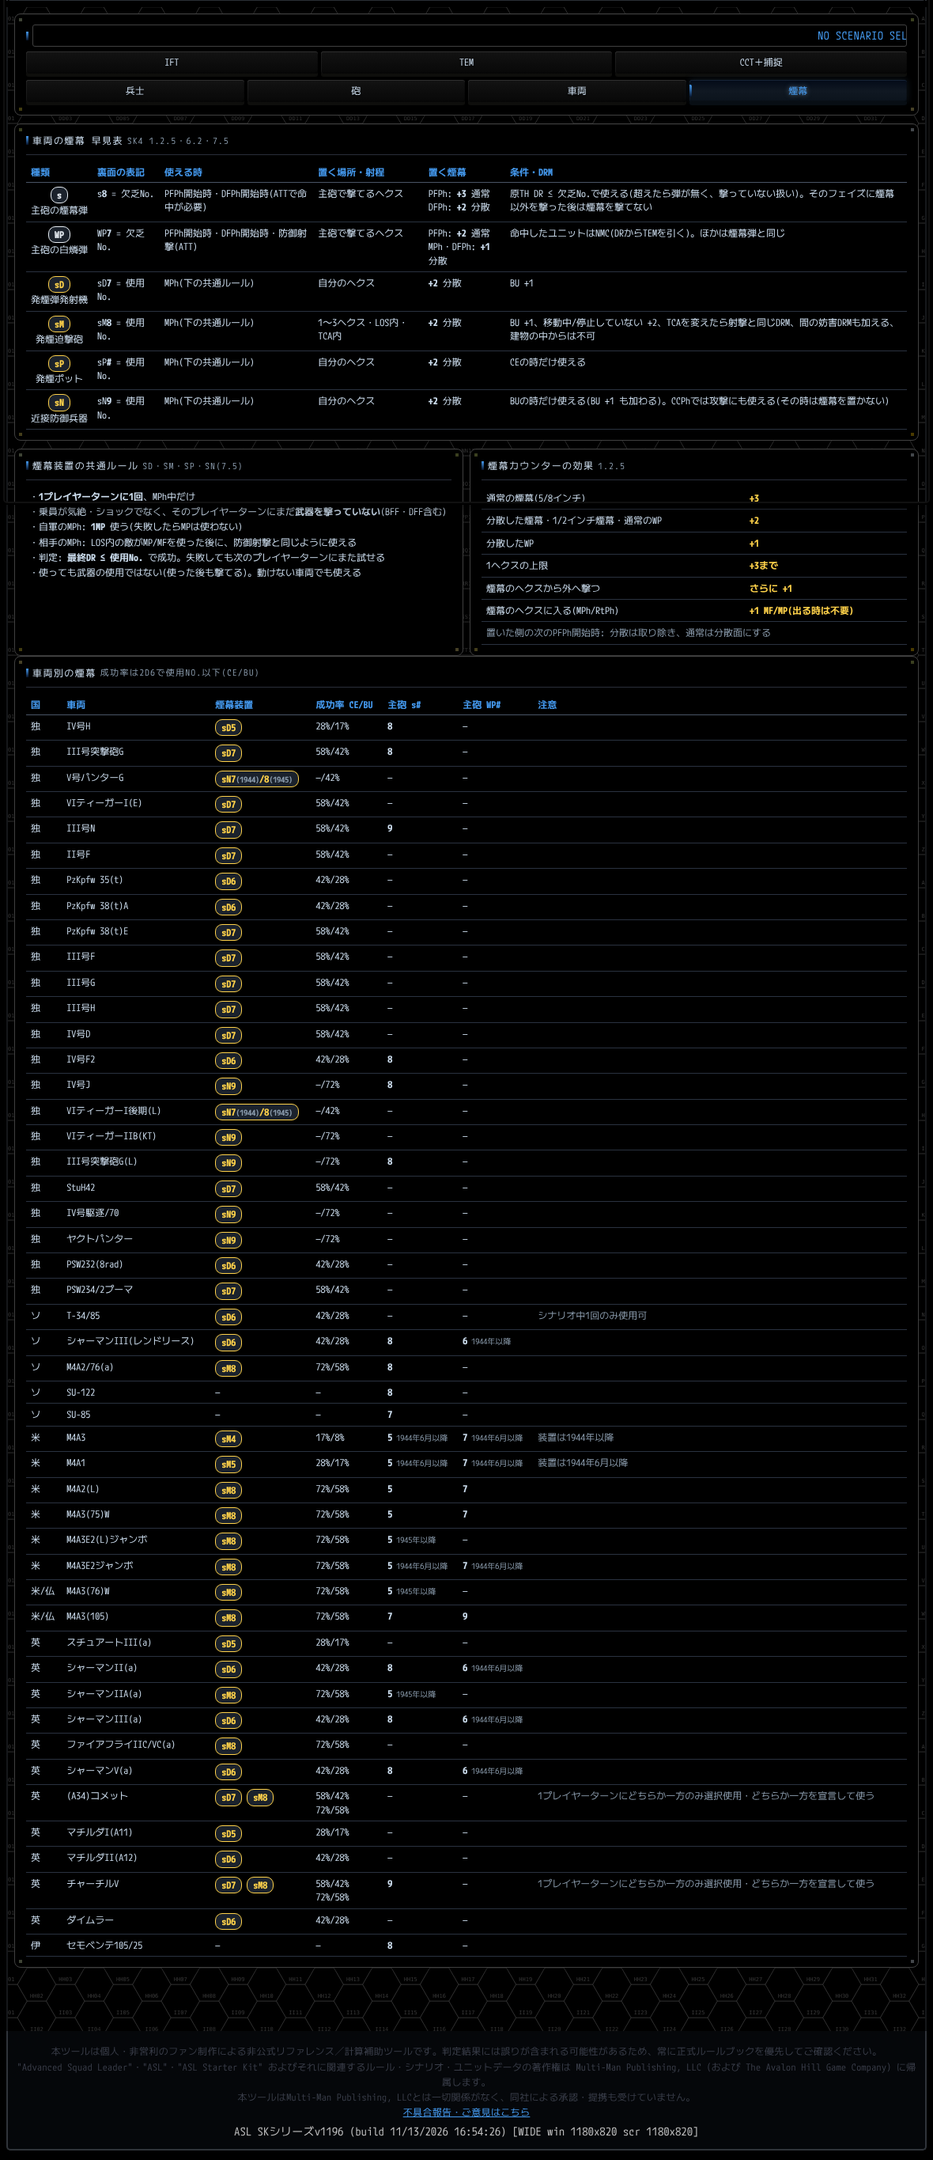
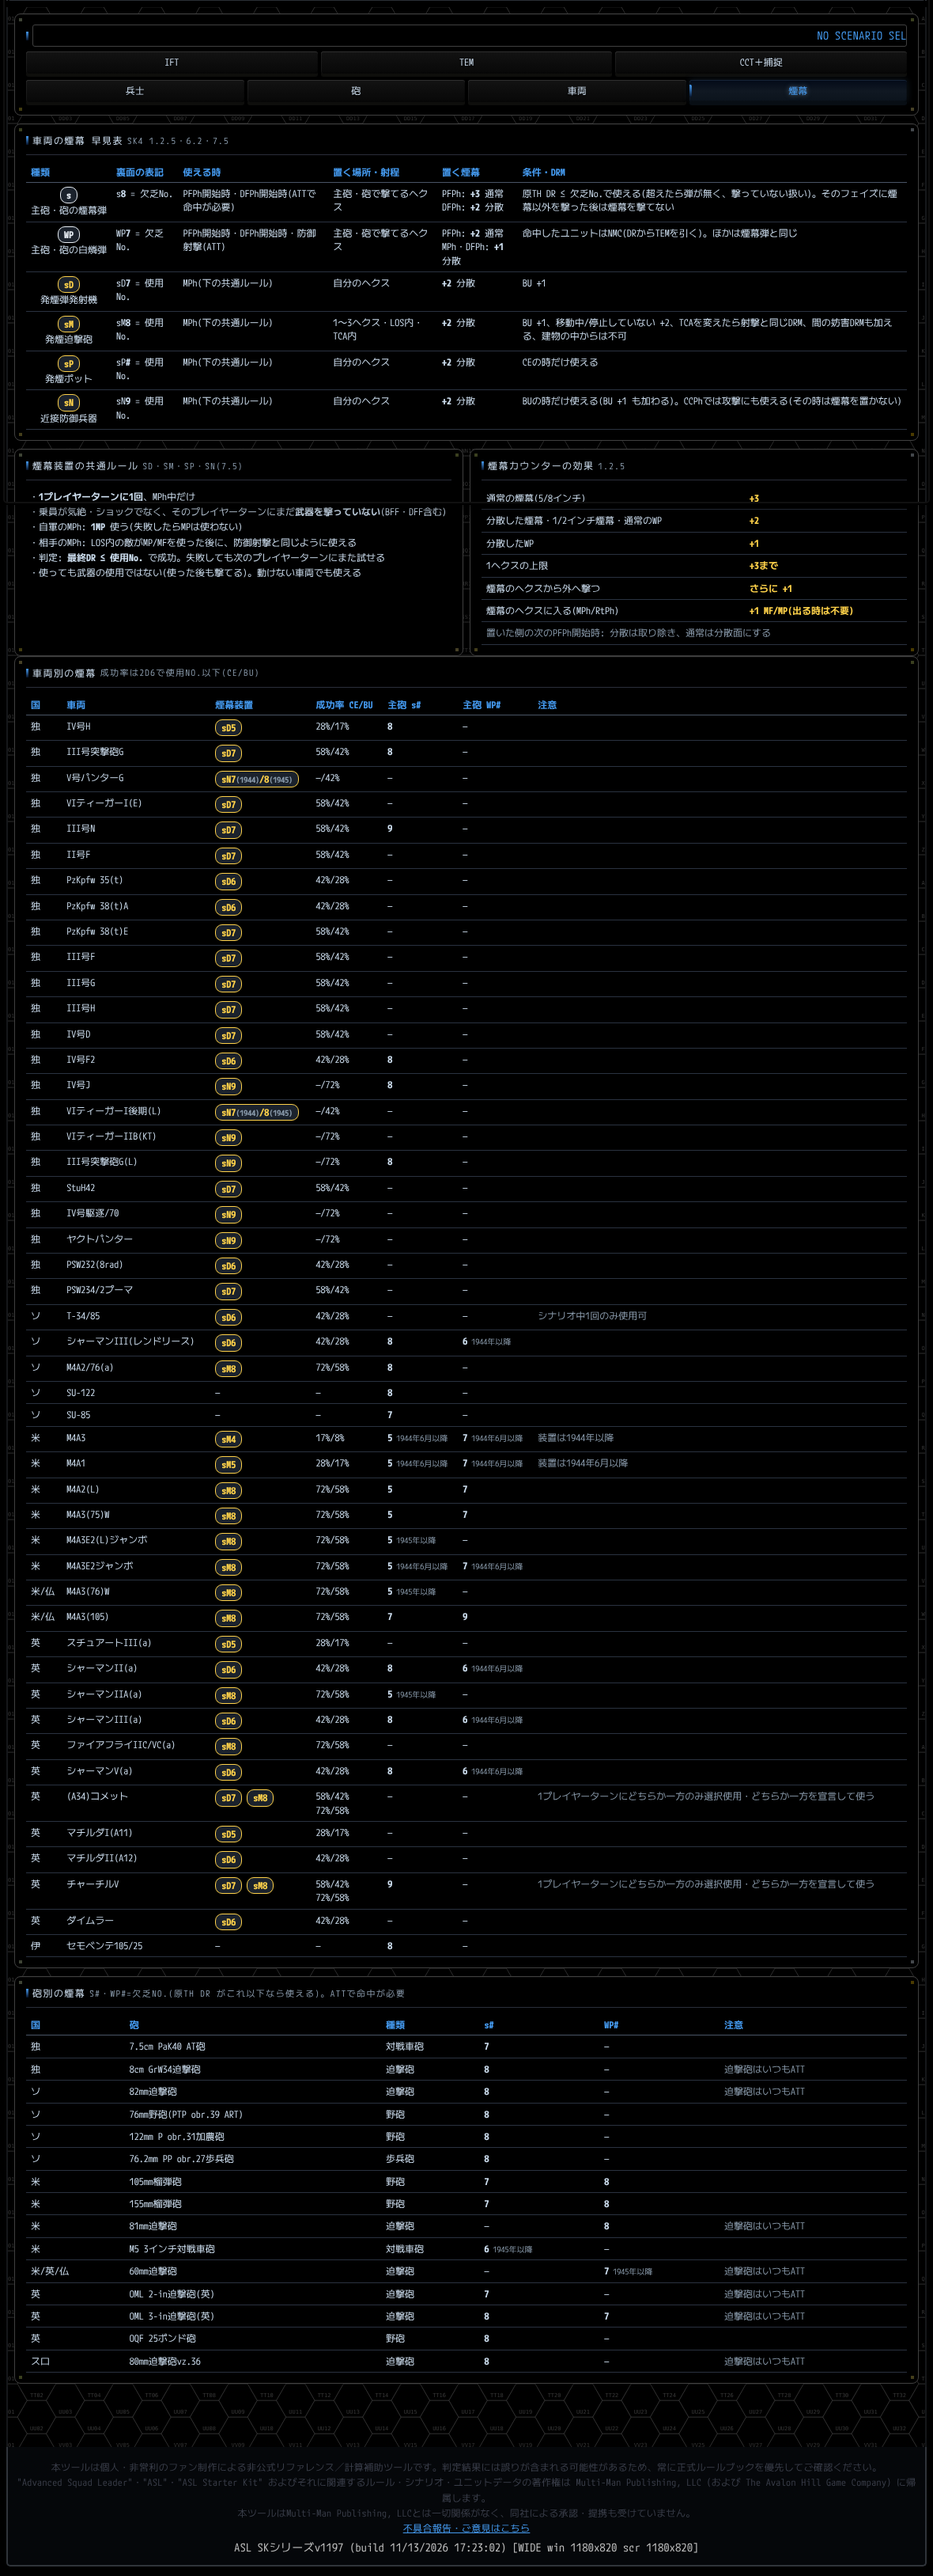
sample-smoketab: 砲を追加
Claude-Session: https://claude.ai/code/session_019kMnQbb72tb95M4LhX1U4s

diff --git a/samples/css/smokecard.js b/samples/css/smokecard.js
@@ -10,8 +10,8 @@ function REF_SMOKE_CARD(){
   h+='<div style="overflow-x:auto"><table style="width:100%;border-collapse:collapse;font-size:12px">';
   h+='<tr><th style="'+TH+'">種類</th><th style="'+TH+'">裏面の表記</th><th style="'+TH+'">使える時</th><th style="'+TH+'">置く場所・射程</th><th style="'+TH+'">置く煙幕</th><th style="'+TH+'">条件・DRM</th></tr>';
   var R=[
-    [tag('s','#e8eef4')+'<br>主砲の煙幕弾','s<b>8</b> = 欠乏No.','PFPh開始時・DFPh開始時(ATTで命中が必要)','主砲で撃てるヘクス','PFPh: <b>+3</b> 通常<br>DFPh: <b>+2</b> 分散','原TH DR ≤ 欠乏No.で使える(超えたら弾が無く、撃っていない扱い)。そのフェイズに煙幕以外を撃った後は煙幕を撃てない'],
-    [tag('WP','#e8eef4')+'<br>主砲の白燐弾','WP<b>7</b> = 欠乏No.','PFPh開始時・DFPh開始時・防御射撃(ATT)','主砲で撃てるヘクス','PFPh: <b>+2</b> 通常<br>MPh・DFPh: <b>+1</b> 分散','命中したユニットはNMC(DRからTEMを引く)。ほかは煙幕弾と同じ'],
+    [tag('s','#e8eef4')+'<br>主砲・砲の煙幕弾','s<b>8</b> = 欠乏No.','PFPh開始時・DFPh開始時(ATTで命中が必要)','主砲・砲で撃てるヘクス','PFPh: <b>+3</b> 通常<br>DFPh: <b>+2</b> 分散','原TH DR ≤ 欠乏No.で使える(超えたら弾が無く、撃っていない扱い)。そのフェイズに煙幕以外を撃った後は煙幕を撃てない'],
+    [tag('WP','#e8eef4')+'<br>主砲・砲の白燐弾','WP<b>7</b> = 欠乏No.','PFPh開始時・DFPh開始時・防御射撃(ATT)','主砲・砲で撃てるヘクス','PFPh: <b>+2</b> 通常<br>MPh・DFPh: <b>+1</b> 分散','命中したユニットはNMC(DRからTEMを引く)。ほかは煙幕弾と同じ'],
     [tag('sD',C)+'<br>発煙弾発射機','sD<b>7</b> = 使用No.','MPh(下の共通ルール)','自分のヘクス','<b>+2</b> 分散','BU +1'],
     [tag('sM',C)+'<br>発煙迫撃砲','sM<b>8</b> = 使用No.','MPh(下の共通ルール)','1〜3ヘクス・LOS内・TCA内','<b>+2</b> 分散','BU +1、移動中/停止していない +2、TCAを変えたら射撃と同じDRM、間の妨害DRMも加える、建物の中からは不可'],
     [tag('sP',C)+'<br>発煙ポット','sP<b>#</b> = 使用No.','MPh(下の共通ルール)','自分のヘクス','<b>+2</b> 分散','CEの時だけ使える'],
@@ -45,6 +45,19 @@ function REF_SMOKE_CARD(){
       if(sm.availFrom)nt.push('装置は'+refSmkWhen(sm.availFrom));if(sm.note)nt.push(String(sm.note).replace(/\(.*$/,''));if(sm.options)nt.push('どちらか一方を宣言して使う');}
     var am=function(t){var a=sa.filter(function(x){return x.type===t;})[0];if(!a)return '—';return '<b>'+a.deplete+'</b>'+(a.availFrom?'<span style="color:'+G+';font-size:10px"> '+refSmkWhen(a.availFrom)+'</span>':'');};
     h+='<tr><td style="'+TD+'">'+(NAT[v.nat]||v.nat)+'</td><td style="'+TD+';white-space:nowrap">'+v.lbl+'</td><td style="'+TD+'">'+dev+'</td><td style="'+TD+';white-space:nowrap">'+pr+'</td><td style="'+TD+'">'+am('Smoke')+'</td><td style="'+TD+'">'+am('WP')+'</td><td style="'+TD+';color:'+G+'">'+nt.join('・')+'</td></tr>';
+  });
+  h+='</table></div></div>';
+  // ⑤ 砲別一覧(GUN_DATA から)
+  var CAT={AT:'対戦車砲',INF:'歩兵砲',ART:'野砲',AA:'対空砲',MTR:'迫撃砲'};
+  var dep=function(a){if(!a)return '—';var d=a.deplete;if(d&&typeof d==='object'){var y=Object.keys(d);return '<b>'+d[y[0]]+'</b><span style="color:'+G+';font-size:10px"> '+y[0]+'年以降</span>';}return '<b>'+d+'</b>';};
+  h+='<div class="card"><div class="sh">'+T('砲別の煙幕')+' <span style="color:'+G+';font-size:11px;font-weight:400">s#・WP#=欠乏No.(原TH DR がこれ以下なら使える)。ATTで命中が必要</span></div><div style="overflow-x:auto"><table style="width:100%;border-collapse:collapse;font-size:12px">';
+  h+='<tr><th style="'+TH+'">国</th><th style="'+TH+'">砲</th><th style="'+TH+'">種類</th><th style="'+TH+'">s#</th><th style="'+TH+'">WP#</th><th style="'+TH+'">注意</th></tr>';
+  var GOD=['GER','SOV','USA','USA/FFR','USA/GBR/FFR','GBR','ITA/GBR','ITA','SLO','POL'];
+  (typeof GUN_DATA!=='undefined'?GUN_DATA:[]).slice().sort(function(a,b){var x=GOD.indexOf(a.nat),y=GOD.indexOf(b.nat);return (x<0?99:x)-(y<0?99:y);}).forEach(function(g){
+    var A=g.ammo||[],sm=A.filter(function(a){return /^smoke$/i.test(a.type);})[0],wp=A.filter(function(a){return a.type==='WP';})[0];
+    if(!sm&&!wp)return;
+    var nt=[];if(g.gunCategory==='MTR')nt.push('迫撃砲はいつもATT');
+    h+='<tr><td style="'+TD+'">'+(NAT[g.nat]||g.nat.replace('USA','米').replace('GBR','英').replace('FFR','仏').replace('ITA','伊'))+'</td><td style="'+TD+';white-space:nowrap">'+g.lbl+'</td><td style="'+TD+'">'+(CAT[g.gunCategory]||g.gunCategory||'')+'</td><td style="'+TD+'">'+dep(sm)+'</td><td style="'+TD+'">'+dep(wp)+'</td><td style="'+TD+';color:'+G+'">'+nt.join('・')+'</td></tr>';
   });
   h+='</table></div></div>';
   return h;
